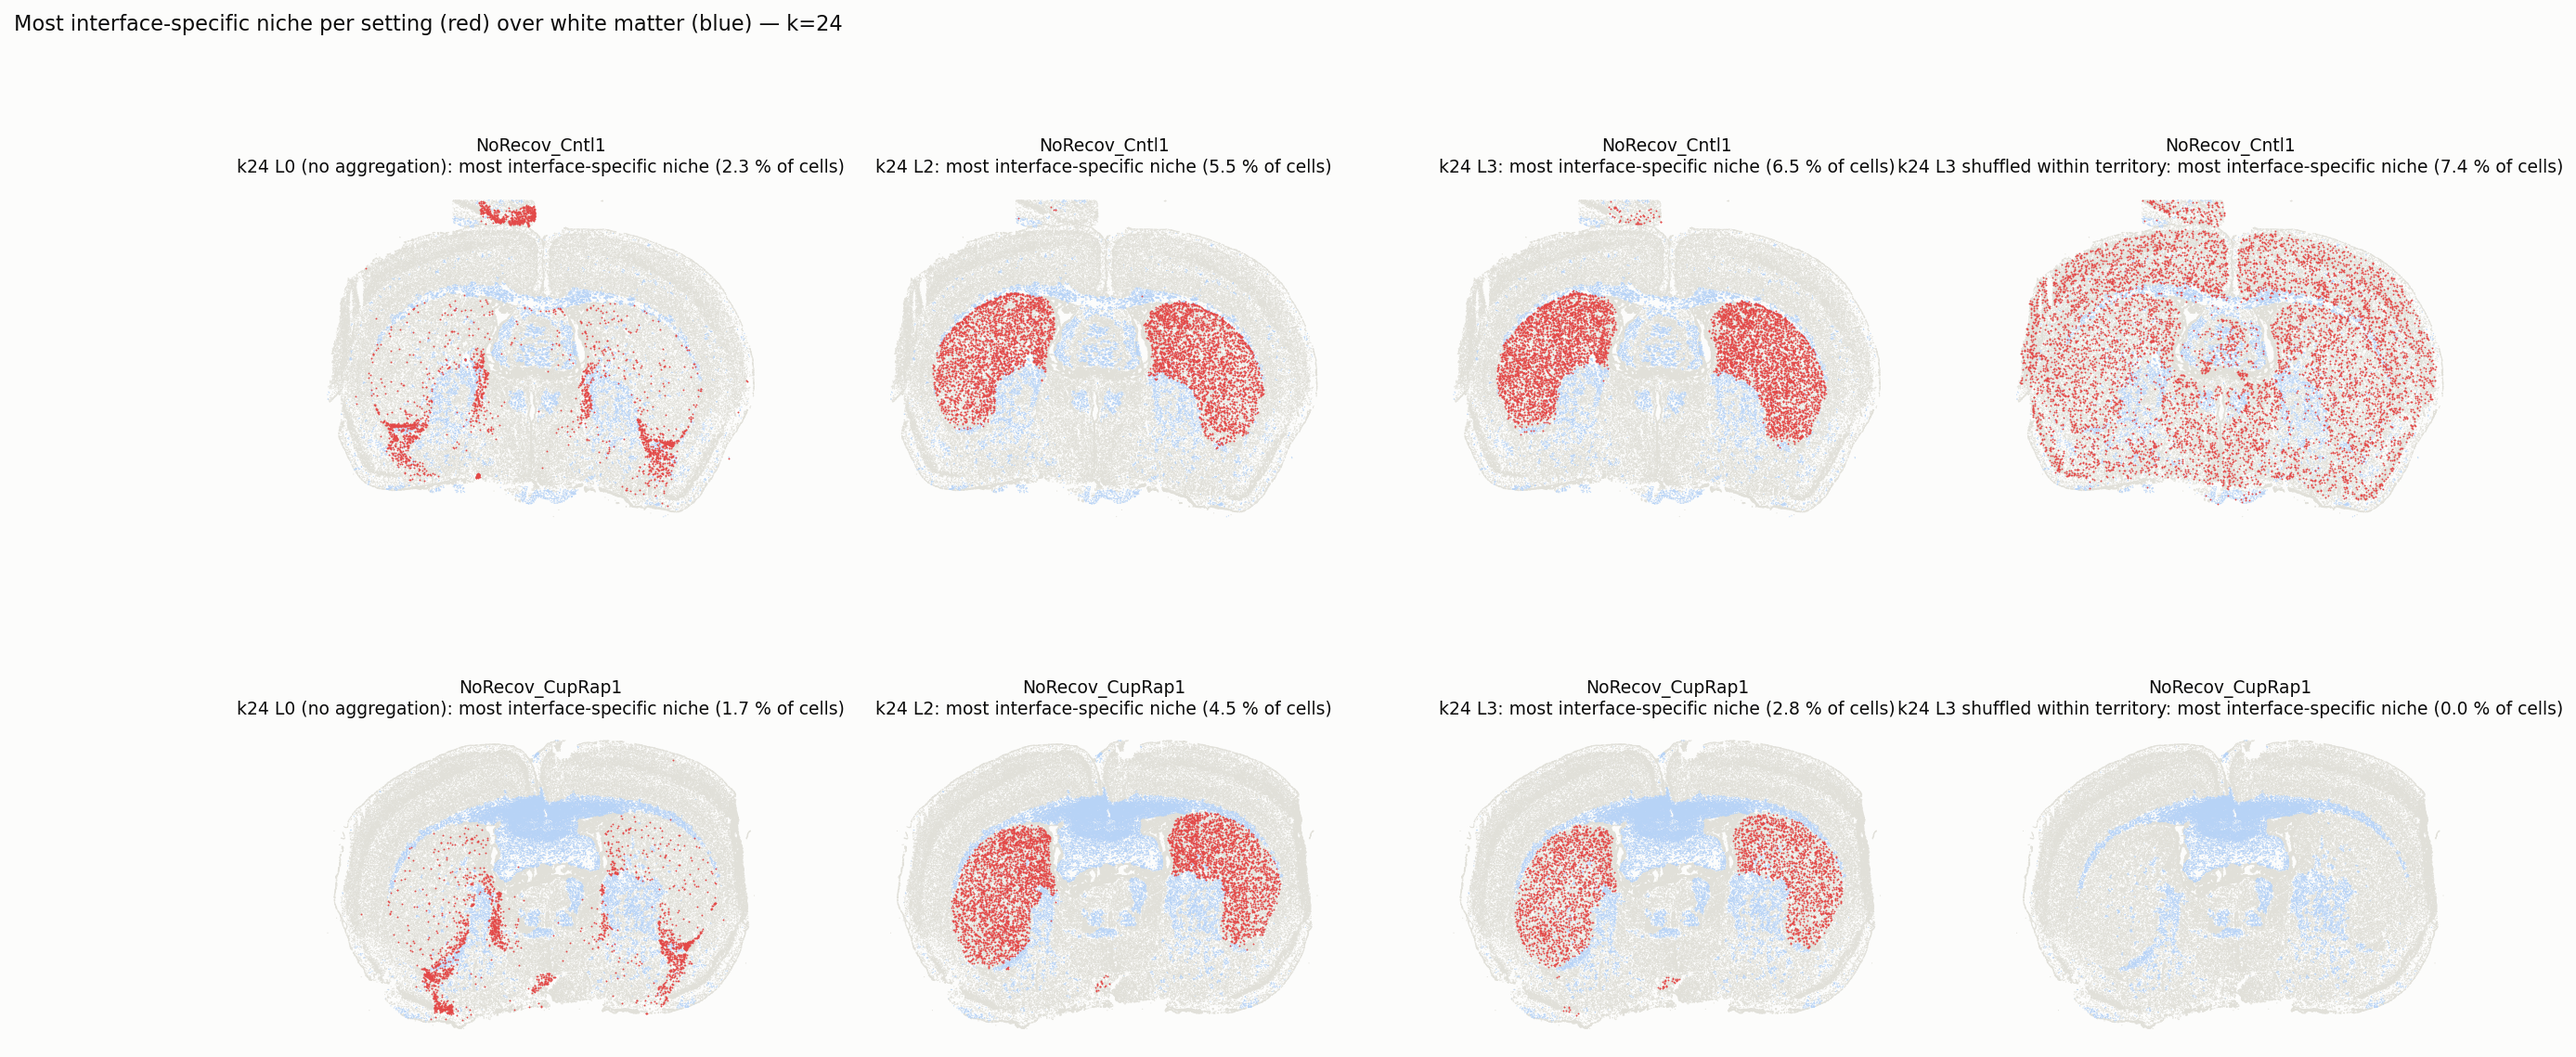
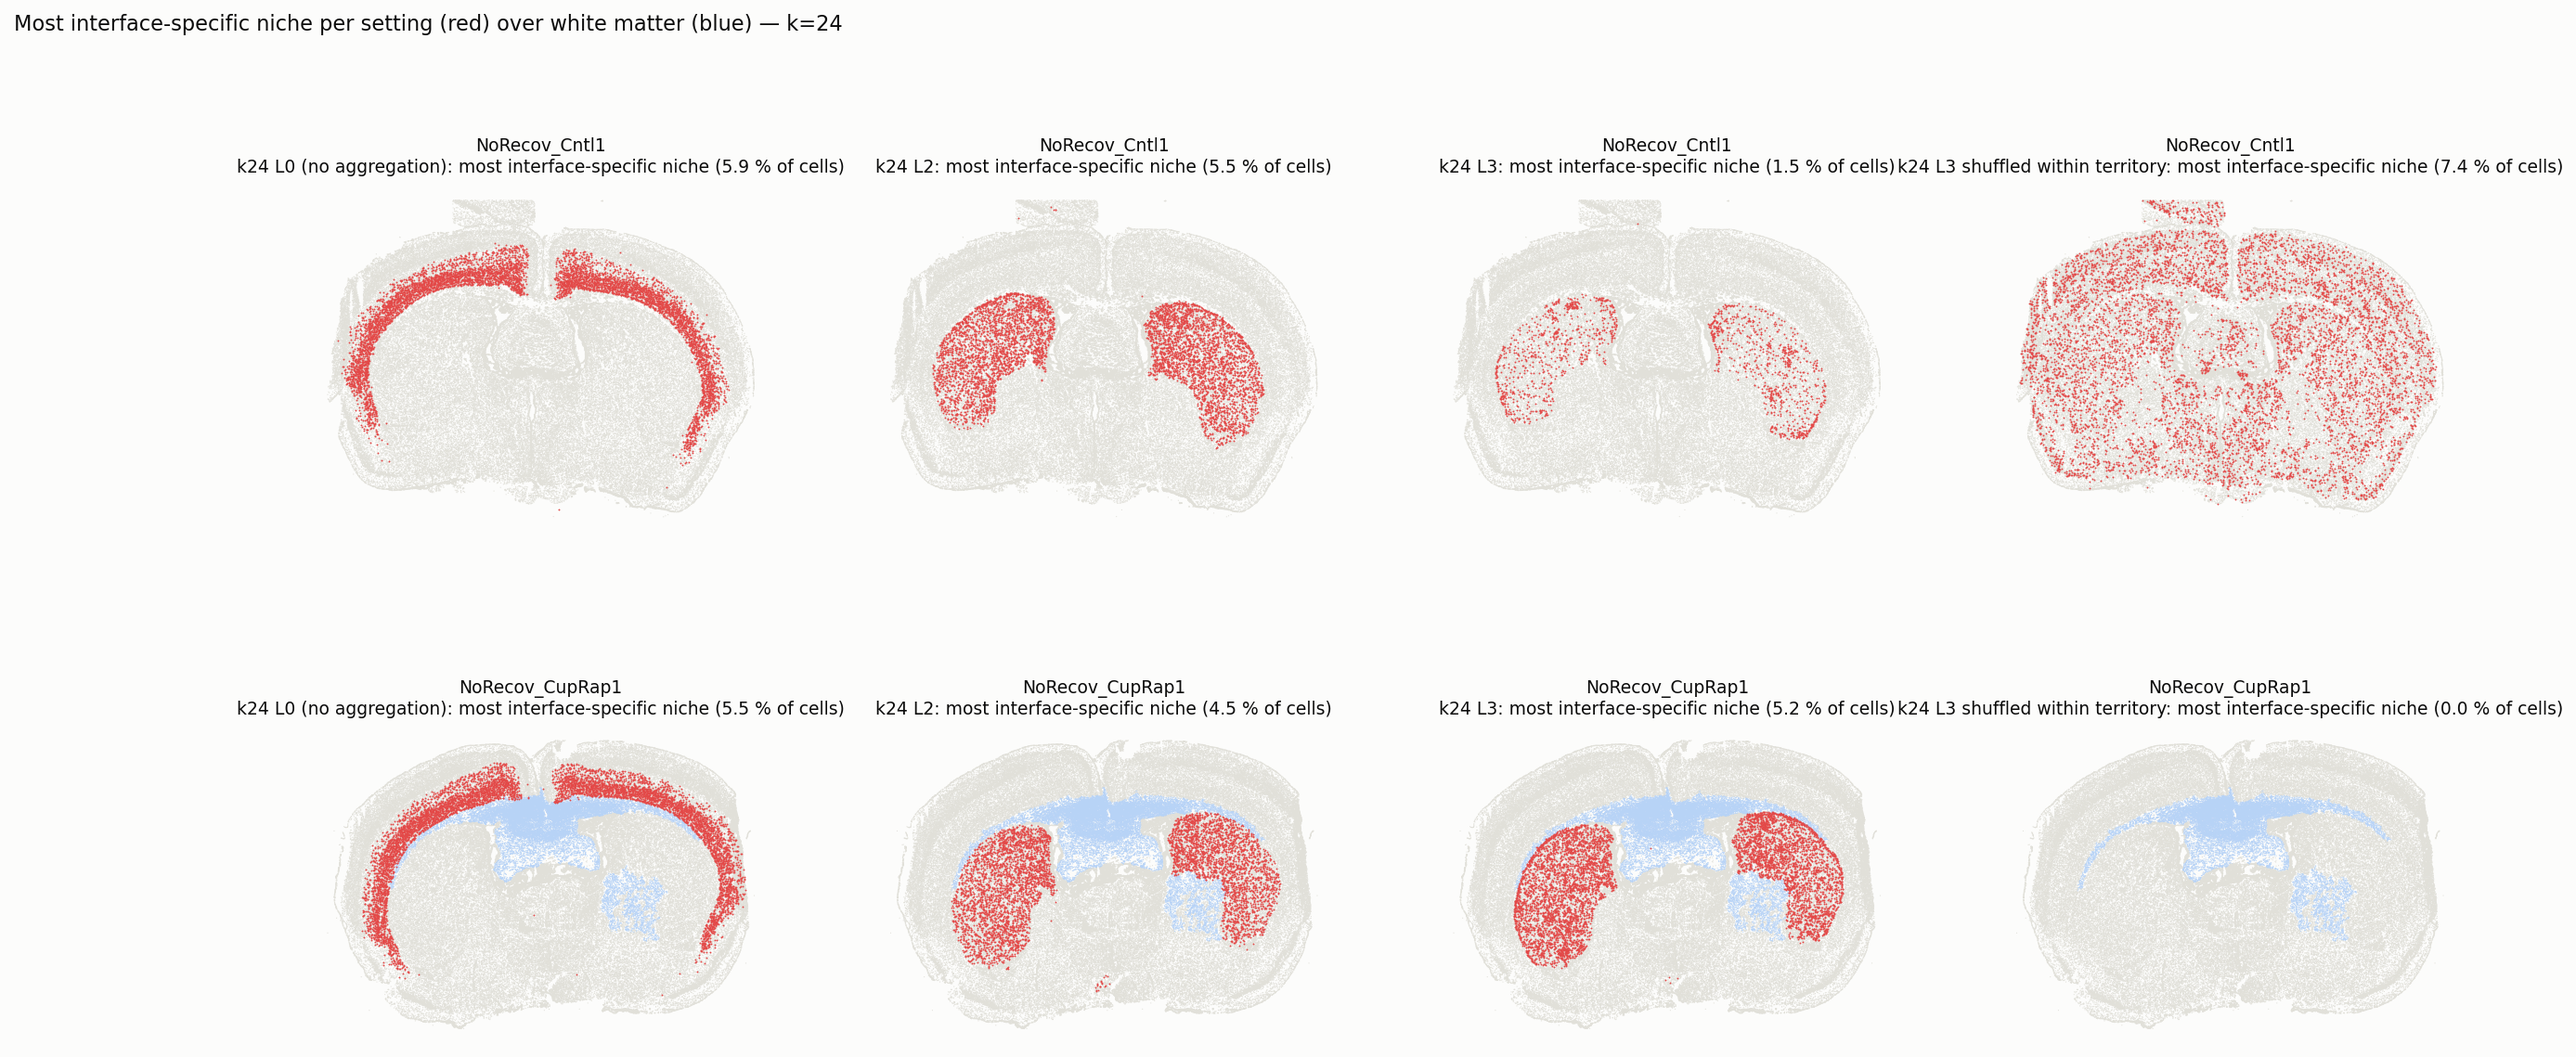
Interface test: add niche thickness metric, keep original band definition

diff --git a/scripts/21_interface_specificity.py b/scripts/21_interface_specificity.py
@@ -13,11 +13,15 @@ d = common.read_light(f"{RES}/xenium_all.h5ad", keys=("obs",), obsm=("spatial",)
 keep = d["obs"].sample_id.astype(str).isin(SECTIONS).values; obs = d["obs"][keep].copy(); xy = d["obsm"]["spatial"][keep]; obs["sample_id"] = obs.sample_id.astype(str)
 ctx = fu.context_fractions(obs, xy, {"wm": ["Oligodendrocyte", "OPC", "Microglia", "Lesion glia (Gfap+ Olig2+)"], "gm": ["Excitatory neuron", "Inhibitory neuron", "Striatal MSN", "Neuron (other)"]}, r=50.0)
 terr = np.where(ctx.wm.values >= 0.40, "WM", np.where(ctx.gm.values >= 0.45, "GM", "other")); sdist = np.full(len(obs), np.nan)
+for s in SECTIONS:   # keep only large contiguous white-matter sheets (corpus callosum / external capsule), not striatal bundles
+    m = np.where(((obs.sample_id == s).values) & (terr == "WM"))[0]
+    lab = DBSCAN(eps=40.0, min_samples=5).fit_predict(xy[m]); sizes = pd.Series(lab).value_counts()
+    small = m[~np.isin(lab, sizes[sizes >= 2500].index) | (lab == -1)]; terr[small] = "other"
 for s in SECTIONS:
     m = np.where((obs.sample_id == s).values)[0]; w = m[terr[m] == "WM"]; g = m[terr[m] == "GM"]
     dW, _ = cKDTree(xy[w]).query(xy[m]); dG, _ = cKDTree(xy[g]).query(xy[m]); sdist[m] = np.where(terr[m] == "WM", dG, np.where(terr[m] == "GM", -dW, np.nan))
 band = np.where(np.isnan(sdist), "other", np.where(sdist > RIM, "WM deep", np.where(sdist > 0, "WM rim", np.where(sdist > -RIM, "GM rim", "GM deep"))))
-overall = pd.Series(band).value_counts(normalize=True); is_cup = obs.sample_id.str.contains("CupRap").values
+print(pd.crosstab(obs.sample_id.values, band).to_string()); overall = pd.Series(band).value_counts(normalize=True); is_cup = obs.sample_id.str.contains("CupRap").values
 rows, picks = [], {}
 for f in sorted(glob.glob(f"{OUT}/k*/niche_labels_by_setting.csv.gz")):
     k = os.path.basename(os.path.dirname(f)); L = pd.read_csv(f, index_col=0).reindex(obs.index)
@@ -31,7 +35,9 @@ for f in sorted(glob.glob(f"{OUT}/k*/niche_labels_by_setting.csv.gz")):
                      "% of niche in rim bands": 100 * frac.loc[best, ["WM rim", "GM rim"]].sum(),
                      "% of WM-rim cells covered (controls)": 100 * ((lab == best) & (band == "WM rim") & ~is_cup).sum() / ((band == "WM rim") & ~is_cup).sum(),
                      "% of WM-rim cells covered (CupRap)": 100 * ((lab == best) & (band == "WM rim") & is_cup).sum() / ((band == "WM rim") & is_cup).sum(),
-                     "% of niche in CupRap": 100 * is_cup[lab == best].mean()})
+                     "% of niche in CupRap": 100 * is_cup[lab == best].mean(),
+                     "median |dist to border| of niche cells (µm)": float(np.nanmedian(np.abs(sdist[(lab == best) & ~np.isnan(sdist)]))),
+                     "overall median |dist| (µm)": float(np.nanmedian(np.abs(sdist)))})
 res = pd.DataFrame(rows); pd.set_option("display.width", 260); print(res.round(2).to_string(index=False)); res.round(3).to_csv(f"{OUT}/summary_interface_specificity.csv", index=False)
 # maps for k24: L0, L2, L3, shuffled, one control + one CupRap section
 k = "k24"; sets = [s for s in ["L0 (no aggregation)", "L2", "L3", "L3 shuffled within territory"] if (k, s) in picks]
